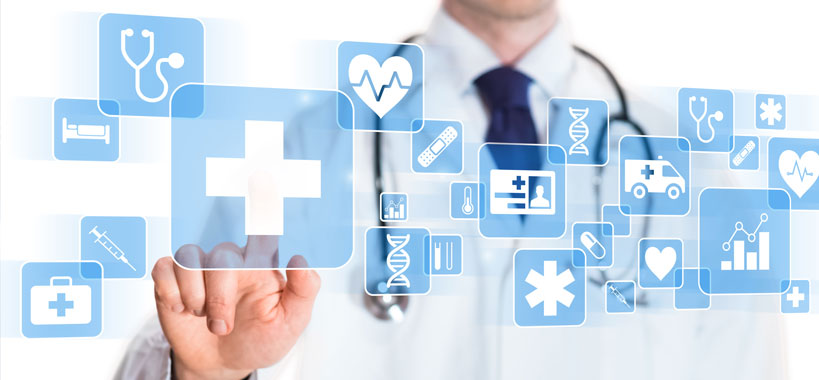
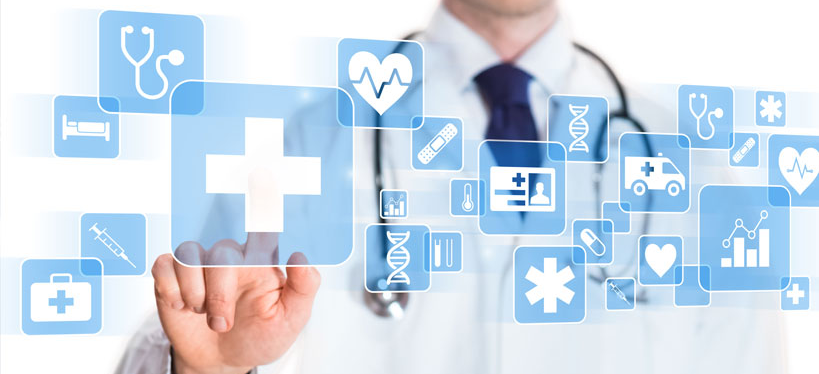
fix

diff --git a/src/styles/global.scss b/src/styles/global.scss
@@ -168,7 +168,7 @@ body {
   text-decoration: none;
 }
 .banner__section {
-  background-color: $primary;
+  // background-color: $primary;
   width: 100%;
 }
 .banner__wraper {
@@ -254,15 +254,14 @@ body {
 .traning__card__text__wraper {
   width: 28%;
   min-width: 270px;
-  min-height: 370px;
+  min-height: 310px;
   display: flex;
   align-items: start;
-  justify-content: space-between;
   flex-direction: column;
   background-color: $secondary;
   color: white;
   margin: 0.5em;
-  padding: 18px 12px;
+  padding: 1.5em;
   cursor: pointer;
   transition: 0.3s ease-in-out;
 }
@@ -277,18 +276,20 @@ body {
   justify-content: flex-start;
 }
 .training__card__svg svg {
-  height: 60px;
+  height: 50px;
+  margin-right: 1em;
+  margin-top: -0.7em;
 }
 .training__card__heading {
-  font-size: 20px;
-  font-weight: 600;
-  margin: 12px;
+  font-size: 18px;
+  font-weight: bold;
+  margin-bottom: 1em;
   font-family: "PT Serif", serif;
 }
 .traning__card__contect {
-  font-size: 16px;
-  margin: 12px 0px;
+  font-size: 14px;
   line-height: 22px;
+  flex: 1;
 }
 .traning__card__btn {
   width: 100%;
@@ -302,6 +303,7 @@ body {
   padding: 12px 20px;
   color: black;
   font-weight: 600;
+  font-size: 13px;
   transition: 0.3s ease-in-out;
   margin-top: 1em;
 }
@@ -737,10 +739,9 @@ body {
   justify-content: center;
   flex-direction: column;
   flex-wrap: wrap;
-  margin: 16px;
+  margin: 8px;
   cursor: pointer;
   border: 1px solid #f1f3f2;
-  border-radius: 5px;
 }
 .client__img__container__img img {
   height: 150px;

diff --git a/src/compounts/Bannermain.jsx b/src/compounts/Bannermain.jsx
@@ -3,9 +3,7 @@ export default function Bannermain({ banner, heading, subheading }) {
     <>
       <div className="banner__section">
         <div className="banner__wraper">
-          <div className="banner__img">
-            <img src={banner} alt="banner" />
-          </div>
+          <img src={banner} alt="banner" className="banner__img" />
           <div className="banner__img__text__wraper">
             <div className="banner__img__text__wraper__heading">{heading}</div>
             <div className="banner__img__text__wraper__sub__heading">

diff --git a/src/layouts/App.jsx b/src/layouts/App.jsx
@@ -7,10 +7,10 @@ export default function App() {
   return (
     <>
       <Head
-        title="Remixer"
-        image="/favicon.svg"
+        title="Ihart"
+        image="/ihart.png"
         url="https://vitefilerouter.com"
-        description="Remixer"
+        description="Ihart is a website for the people who want to learn about the art of the world."
       />
       <Header />
       <Outlet />

diff --git a/README.md b/README.md
@@ -1,4 +1,4 @@
-# Remixer
+# Ihart
 
 ## Description
 
